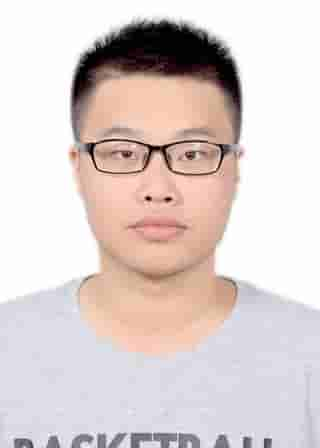
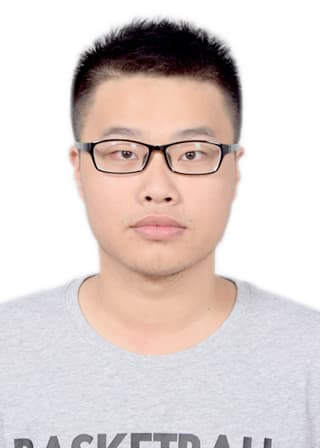
Update Author “admin/_index”

diff --git a/content/authors/admin/_index.md b/content/authors/admin/_index.md
@@ -1,7 +1,7 @@
 ---
 title: Fabin Lin林法彬
 role: Neurosurgeon;  M.D student
-avatar_filename: ""
+avatar_filename: dsc_0007-副本.jpg
 bio: My research interests include clinical prediction models, MRI data analysis
   and machine learning.
 interests:
